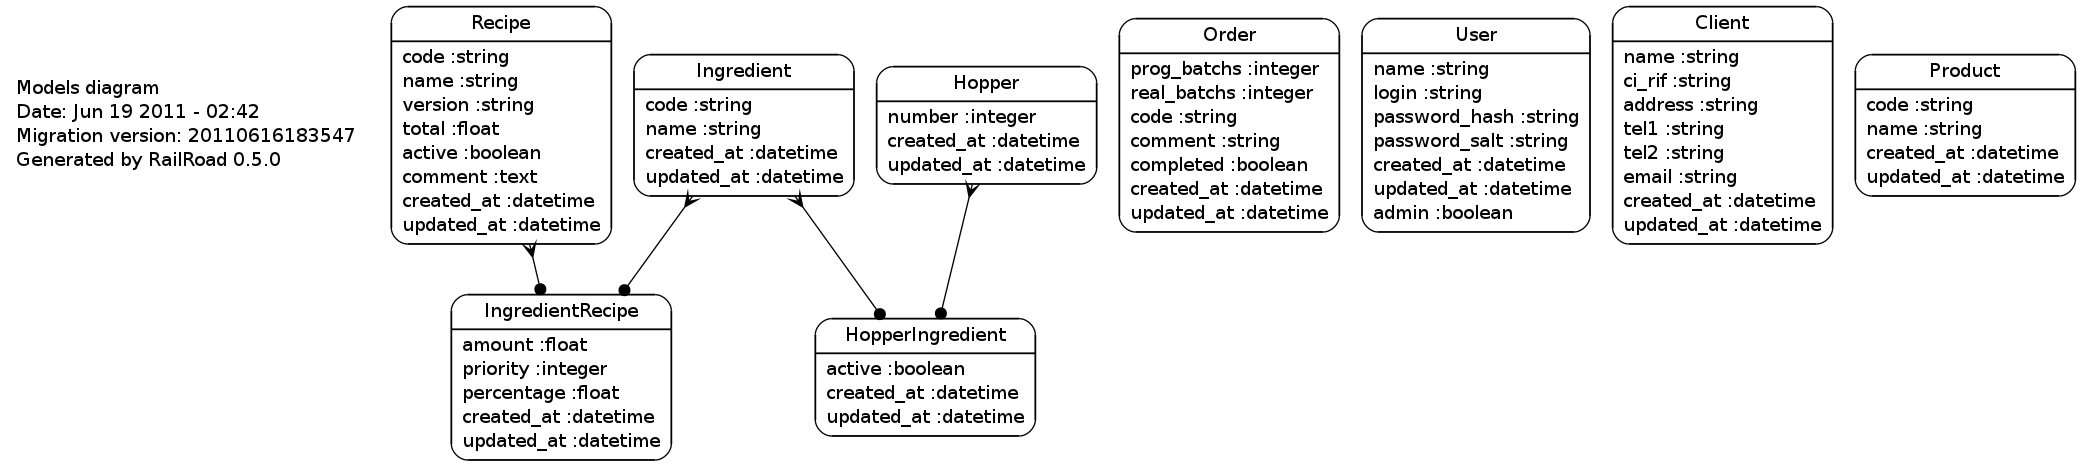
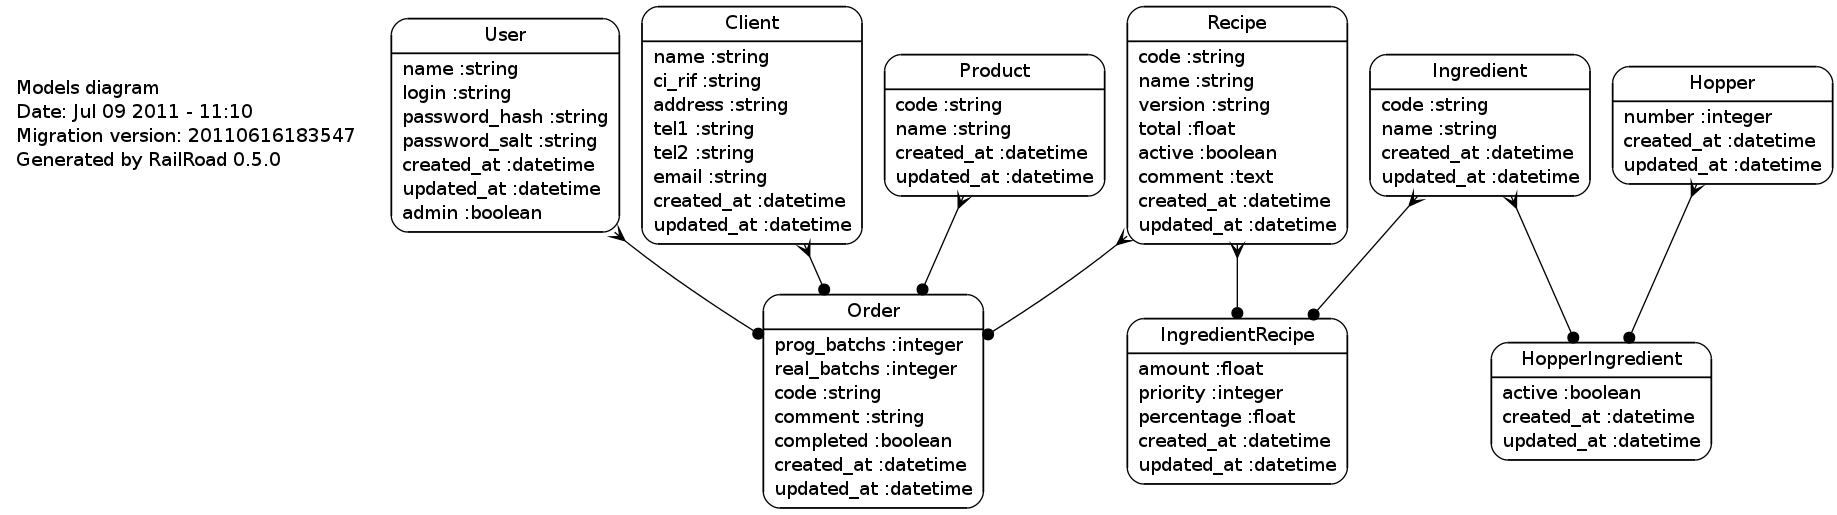
Working with orders. Created relationship with other models and index view

diff --git a/public/javascripts/application.js b/public/javascripts/application.js
@@ -46,3 +46,11 @@ function submit_product_new_form() {
 function submit_product_edit_form() {
     $('product_edit_form').submit();
 }
+
+function submit_order_new_form() {
+    $('order_new_form').submit();
+}
+
+function submit_order_edit_form() {
+    $('order_edit_form').submit();
+}

diff --git a/app/helpers/menu_helper.rb b/app/helpers/menu_helper.rb
@@ -37,6 +37,12 @@ module MenuHelper
       menu = menu_for_products_new
     elsif c == 'products' and (a == 'edit' or a == 'update')
       menu = menu_for_products_edit
+    elsif c == 'orders' and a == 'index'
+      menu = menu_for_orders_index
+    elsif c == 'orders' and (a == 'new' or a == 'create')
+      menu = menu_for_orders_new
+    elsif c == 'orders' and (a == 'edit' or a == 'update')
+      menu = menu_for_orders_edit
     end
 
     return content_tag(:div, menu, :id => 'menu')
@@ -208,6 +214,33 @@ module MenuHelper
     menu += content_tag(:ul, 
       render_back(products_path) +
       render_function('Actualizar', 'Actualizar producto terminado', "submit_product_edit_form()", 'button-execute.png')
+    )
+    return menu
+  end
+  
+  def menu_for_orders_index
+    menu = content_tag(:p, 'Lista de órdenes de producción')
+    menu += content_tag(:ul, 
+      render_back(root_path) +
+      render_action('Crear', 'Crear nueva orden de producción', new_product_path, 'button-add.png')
+    )
+    return menu
+  end
+  
+  def menu_for_orders_new
+    menu = content_tag(:p, 'Crear nueva orden de producción')
+    menu += content_tag(:ul, 
+      render_back(products_path) +
+      render_function('Guardar', 'Guardar orden de producción', "submit_product_new_form()", 'button-execute.png')
+    )
+    return menu
+  end
+  
+  def menu_for_orders_edit
+    menu = content_tag(:p, 'Editar orden de producción')
+    menu += content_tag(:ul, 
+      render_back(products_path) +
+      render_function('Actualizar', 'Actualizar orden de producción', "submit_product_edit_form()", 'button-execute.png')
     )
     return menu
   end

diff --git a/app/models/recipe.rb b/app/models/recipe.rb
@@ -1,4 +1,5 @@
 class Recipe < ActiveRecord::Base
+  has_many :order
   has_many :ingredient_recipe
 
   validates_presence_of :name, :code
@@ -74,7 +75,7 @@ class Recipe < ActiveRecord::Base
           header = fd.gets().split(/\t/)
           @recipe = Recipe.find_by_code(header[0])
           if @recipe.nil?
-            @recipe = Recipe.new :code=>header[0], :name=>header[1]
+            @recipe = Recipe.new :code=>header[0], :name=>header[1], :version=>header[3].strip()
             logger.info("Creando encabezado de receta #{@recipe.inspect}")
           end
           fd.gets()
@@ -88,7 +89,7 @@ class Recipe < ActiveRecord::Base
             percentage = item[3].gsub(',', '.')
             @recipe.add_ingredient(
               :amount=>amount.to_f, 
-              :priority=>item[1].to_i, 
+              :priority=>0, 
               :percentage=>percentage.to_f, 
               :ingredient=>item[2].strip(),
               :overwrite=>overwrite)

diff --git a/config/routes.rb b/config/routes.rb
@@ -41,7 +41,7 @@ ActionController::Routing::Routes.draw do |map|
   map.recipe_import 'recipes/import', :controller => "recipes", :action => "import"
   map.recipe_upload 'recipes/upload', :controller => "recipes", :action => "upload"
   map.not_implemented 'sessions/not_implemented', :controller => "sessions", :action => "not_implemented"
-  map.resources :sessions, :users, :ingredients, :clients, :hoppers, :products
+  map.resources :sessions, :users, :ingredients, :clients, :hoppers, :products, :orders
   map.resources :recipes do |recipes|
     recipes.resources :ingredients_recipes
   end

diff --git a/db/migrate/20110616183547_create_orders.rb b/db/migrate/20110616183547_create_orders.rb
@@ -25,10 +25,10 @@ extend MigrationHelper
   end
 
   def self.down
-    drop_foreign_key 'orders', 'recipe_id'
-    drop_foreign_key 'orders', 'client_id'
-    drop_foreign_key 'orders', 'user_id'
     drop_foreign_key 'orders', 'product_id'
+    drop_foreign_key 'orders', 'user_id'
+    drop_foreign_key 'orders', 'client_id'
+    drop_foreign_key 'orders', 'recipe_id'
     drop_table :orders
   end
 end

diff --git a/app/controllers/recipes_controller.rb b/app/controllers/recipes_controller.rb
@@ -8,7 +8,7 @@ class RecipesController < ApplicationController
   end
 
   def edit
-    @recipe = Recipe.find(params[:id], :include=>'ingredient_recipe', :order=>'ingredients_recipes.id desc')
+    @recipe = Recipe.find(params[:id], :include=>'ingredient_recipe', :order=>'id desc')
   end
 
   def create

diff --git a/app/models/client.rb b/app/models/client.rb
@@ -1,5 +1,6 @@
 class Client < ActiveRecord::Base
-  #has_many :order
+  has_many :order
+
   validates_uniqueness_of :ci_rif
   validates_presence_of :name, :ci_rif, :address, :tel1
   validates_length_of :ci_rif, :within => 3..10

diff --git a/app/models/product.rb b/app/models/product.rb
@@ -1,4 +1,6 @@
 class Product < ActiveRecord::Base
+  has_many :order
+
   validates_uniqueness_of :code
   validates_presence_of :name, :code
   validates_length_of :code, :name, :within => 3..40

diff --git a/app/models/user.rb b/app/models/user.rb
@@ -1,4 +1,6 @@
 class User < ActiveRecord::Base
+  has_many :order
+
   validates_uniqueness_of :login
   validates_presence_of :name, :login
   validates_length_of :name, :login, :within => 3..40

diff --git a/test/functional/orders_controller_test.rb b/test/functional/orders_controller_test.rb
@@ -1,0 +1,8 @@
+require 'test_helper'
+
+class OrdersControllerTest < ActionController::TestCase
+  # Replace this with your real tests.
+  test "the truth" do
+    assert true
+  end
+end

diff --git a/app/models/order.rb b/app/models/order.rb
@@ -1,2 +1,6 @@
 class Order < ActiveRecord::Base
+  belongs_to :recipe
+  belongs_to :client
+  belongs_to :user
+  belongs_to :product
 end

diff --git a/app/controllers/orders_controller.rb b/app/controllers/orders_controller.rb
@@ -1,0 +1,5 @@
+class OrdersController < ApplicationController
+  def index
+    @orders = []
+  end
+end
